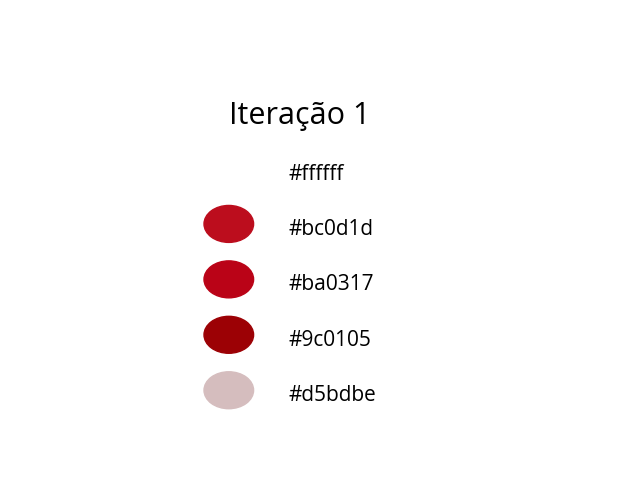
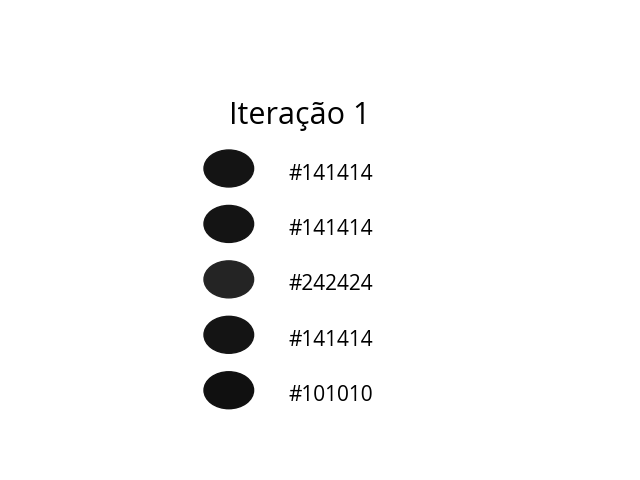
main loop altered

diff --git a/core/kmeans/core.py b/core/kmeans/core.py
@@ -50,11 +50,11 @@ class BaseProblemSolver:
                 if self.distance(previous.center, new.center) < self.min_diff:
                     return True
 
-            return False
+        return False
 
     def _get_image_data(self):
         img = Image.open(self.img_path)
-        img.thumbnail((270, 480))
+        # img.thumbnail((270, 480))
         img = img.convert("RGB")
         width, height = img.size
         self.img_dim = width * height
@@ -112,11 +112,13 @@ class Runner:
     def run(self):
         iter = 1
         centroid_colors = None
-        while not self.problem_solver.is_last_fit_calculation():
+        while True:
             rgbs = [map(int, c.center.coordinates) for c in self.problem_solver.clusters]
             centroid_colors = list(map(util.rgb_to_hex, rgbs))
             PalletExtractor.plot_pallet(centroid_colors, iter)
             iter += 1
+            if self.problem_solver.is_last_fit_calculation():
+                break
 
         self.problem_solver.clusters.sort(key=lambda c: len(c.points), reverse=True)
         # PlotAlgoritmState().plot(self.problem_solver.clusters)

diff --git a/core/k_test.py b/core/k_test.py
@@ -3,6 +3,6 @@ from core.kmeans import core
 # def __init__(self, ncluster, img_path, mindif):
 
 if __name__ == '__main__':
-    runner = core.Runner(5, "../images/pontofrio-3.png", 1)
+    runner = core.Runner(5, "../images/whatsapp-image-2019-03-27-at-08.57.09.jpeg", 1)
     res = runner.run()
     print(res)
